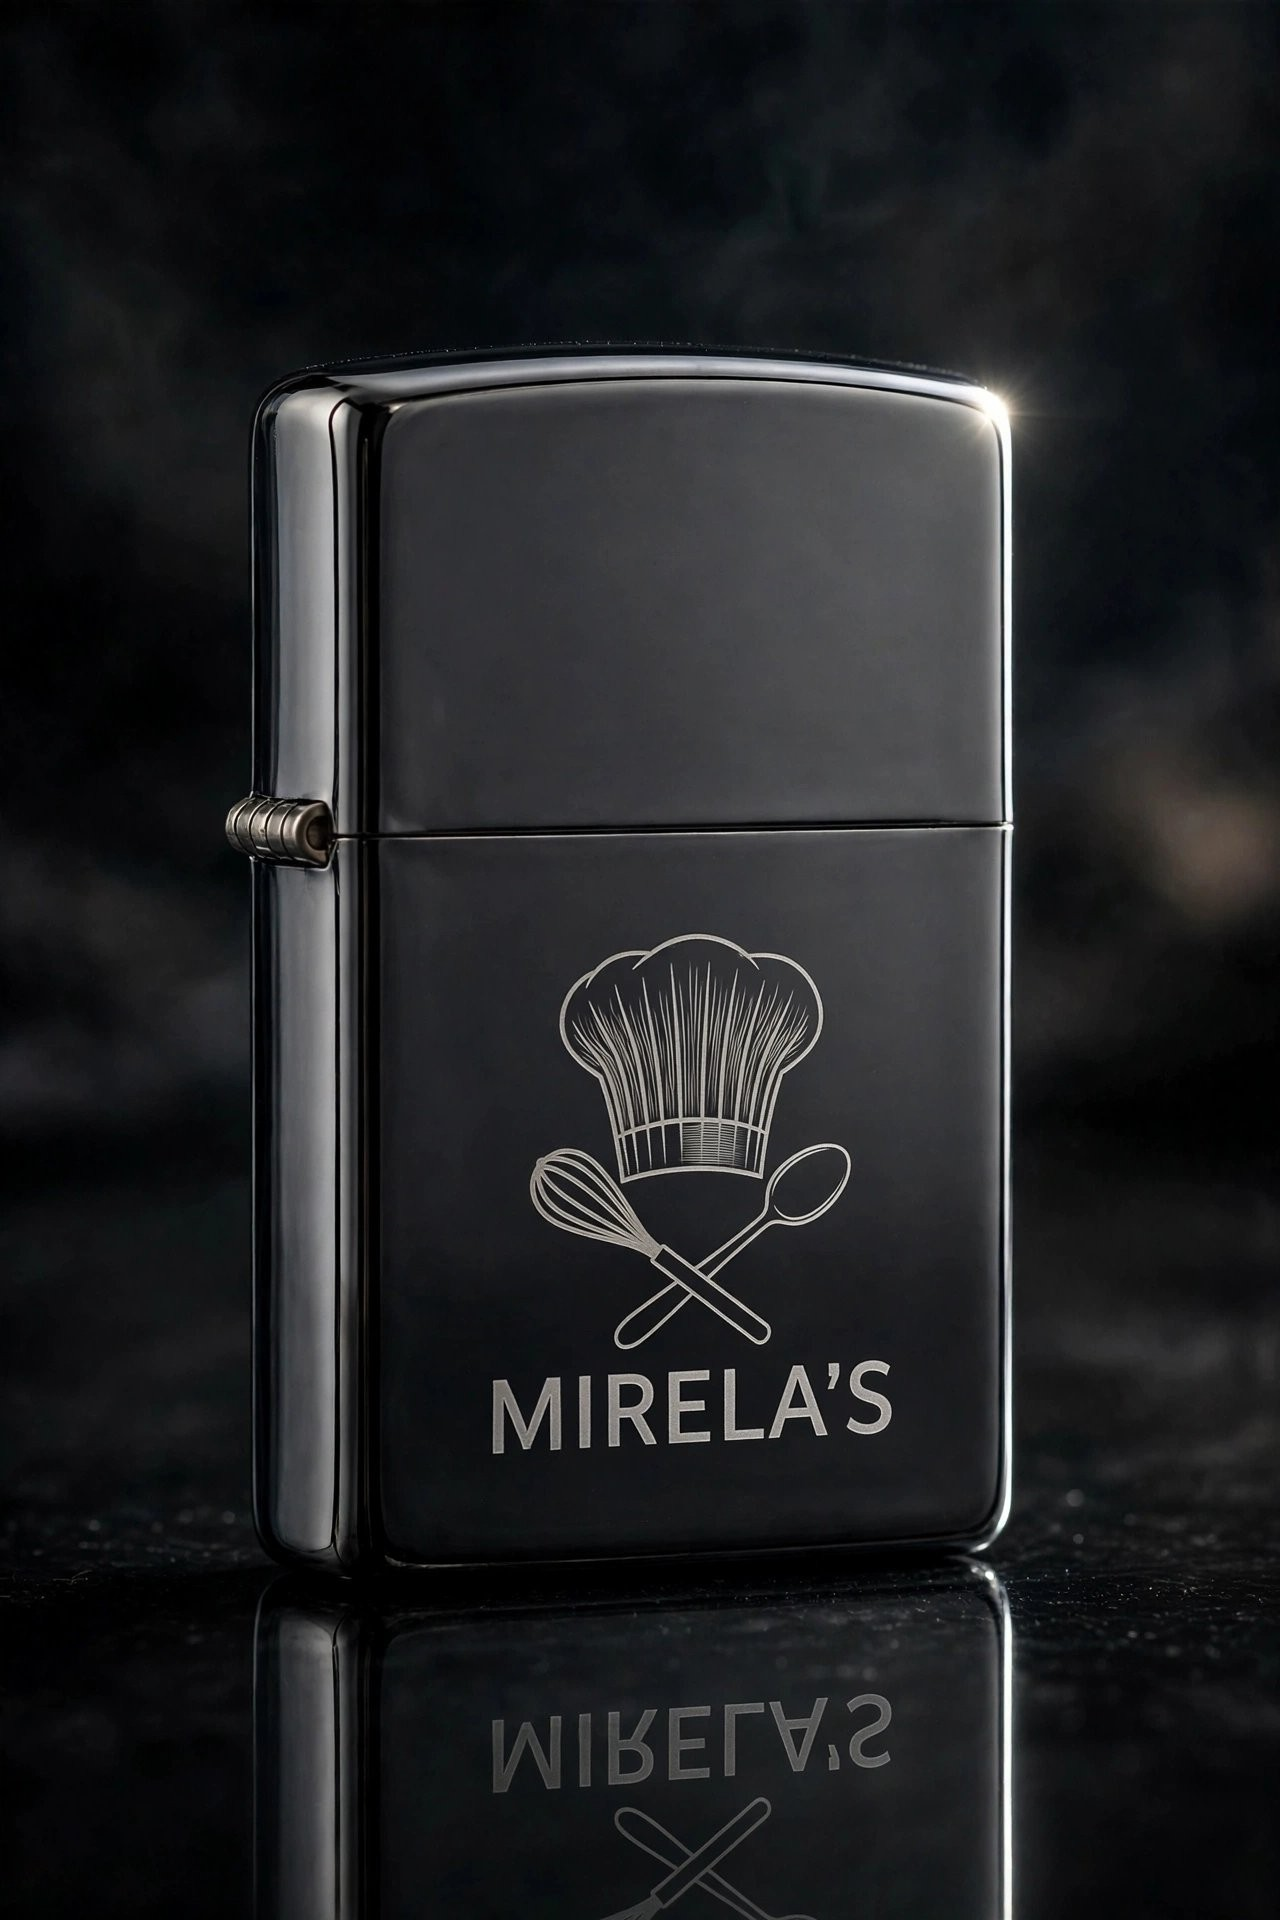
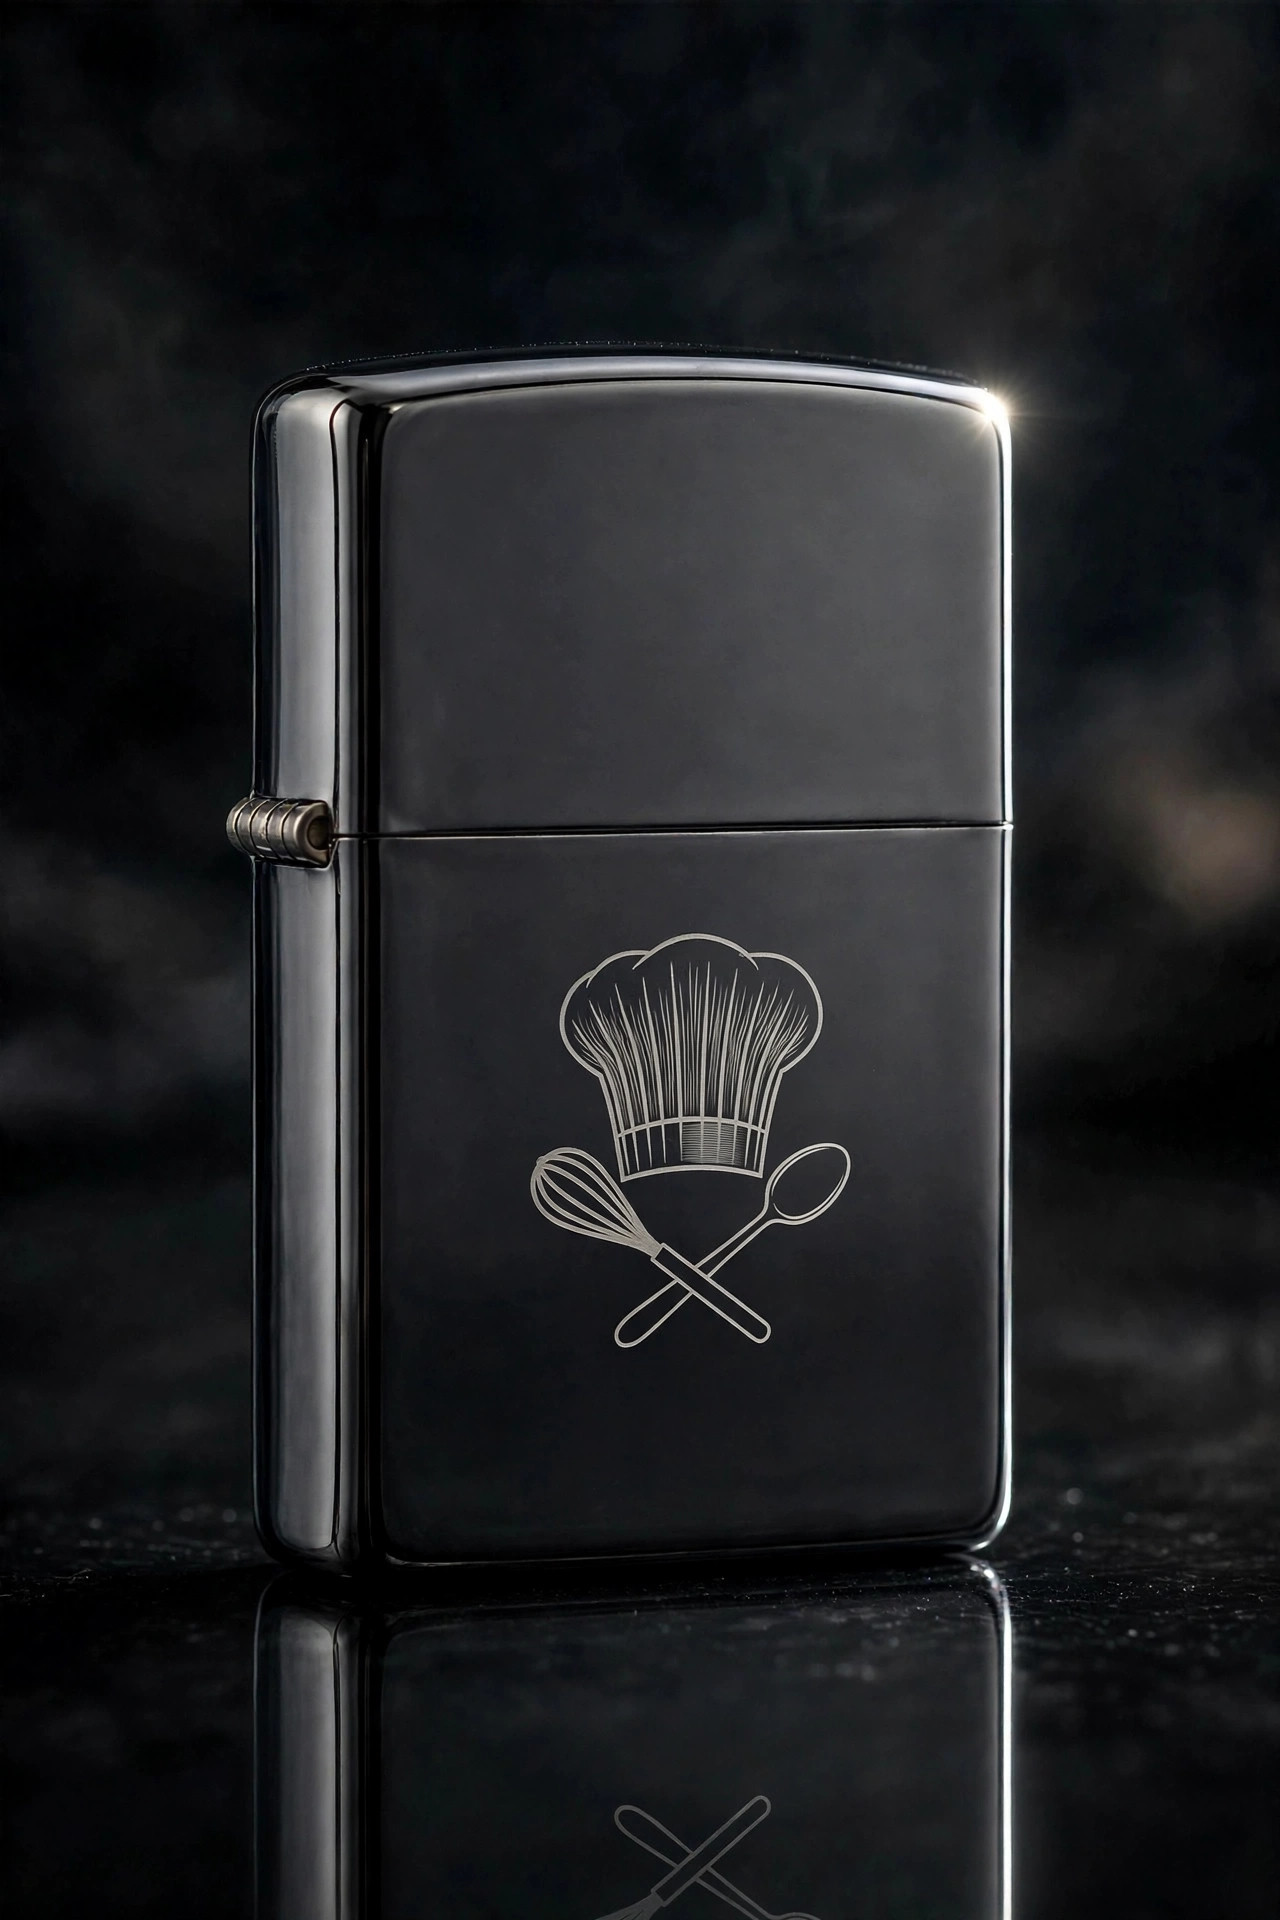
Lighter: JDM chrome photo becomes primary, brand names removed from mockups

diff --git a/server.py b/server.py
@@ -757,6 +757,19 @@ def seed():
     conn.execute(
         "UPDATE products SET photo='/img/products/custom-lighter-stogies.jpg' "
         "WHERE id='custom-lighter' AND photo='/img/products/custom-lighter.jpg'")
+    # 2026-10-18: JDM chrome lighter becomes the primary photo (Antonio's pick);
+    # brand names removed from the three mockups (files replaced in place).
+    # Only touches the row if Antonio hasn't changed the photo himself since.
+    if not conn.execute(
+            "SELECT id FROM product_photos WHERE id='php_cl_custom-lighter-jdm_jpg'").fetchone():
+        conn.execute(
+            "INSERT INTO product_photos (id, product_id, photo, sort, is_scale, created) "
+            "VALUES ('php_cl_custom-lighter-jdm_jpg','custom-lighter',"
+            "'/img/products/custom-lighter-jdm.jpg',1,0,?)",
+            (now_iso(),))
+    conn.execute(
+        "UPDATE products SET photo='/img/products/custom-lighter-jdm.jpg' "
+        "WHERE id='custom-lighter' AND photo='/img/products/custom-lighter-stogies.jpg'")
     # 2026-10-18: mini saint busts, two sizes (Antonio: $24.99 small, $39.99 large).
     for _pid, _name, _name_fr, _cents, _photo in (
             ("mini-bust-small", "Mini Saint Bust \u2014 Small", "Mini-buste de saint \u2014 Petit",
